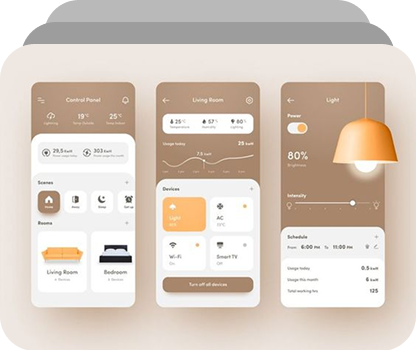
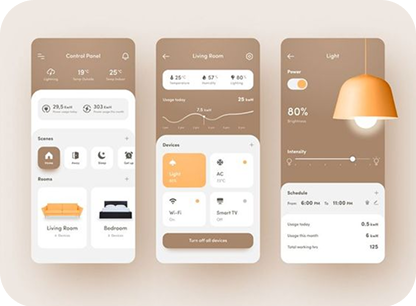
feat: add ServiceCard component with custom clip-path and stacked styling

diff --git a/src/components/ServiceCard.tsx b/src/components/ServiceCard.tsx
@@ -1,5 +1,4 @@
-import React from "react";
-import Image from "next/image";
+import React, { useId } from "react";
 import { ArrowDiagonalIcon } from "./icons/ArrowDiagonalIcon";
 
 export interface ServiceCardProps {
@@ -13,43 +12,56 @@ export const ServiceCard: React.FC<ServiceCardProps> = ({
 	imageSrc,
 	altText,
 }) => {
+	const clipId = useId().replace(/:/g, "");
+
 	return (
-		<div className="relative group w-full min-w-70 xs:min-w-[300px] md:min-w-0 bg-white/4 border border-white/15 hover:border-white/25 rounded-[28px] xs:rounded-[32px] sm:rounded-[36px] md:rounded-[40px] flex flex-col justify-between backdrop-blur-md shadow-2xl transition-all duration-300 hover:-translate-y-2 snap-start overflow-hidden">
-			{/* Title Header & Horizontal Line */}
-			<div className="p-5 xs:p-6 sm:p-7 pb-0">
-				<h3 className="text-2xl sm:text-3xl md:text-[28px] lg:text-[32px] font-bold text-white tracking-wide leading-tight">
-					{title}
-				</h3>
-				<div className="w-full h-px bg-white/15 mt-3.5 sm:mt-4 mb-3 sm:mb-4" />
-			</div>
+		<div className="relative group w-full min-w-70 xs:min-w-[300px] md:min-w-0 snap-start pb-[50%]">
+			<div className="rounded-[32px] sm:rounded-[40px] border border-white/15 group-hover:border-white/25 bg-white/5 backdrop-blur-md transition-all duration-300">
+				<div className="pt-8">
+					<h3 className="px-8 text-2xl sm:text-3xl md:text-[28px] lg:text-[32px] font-bold text-white tracking-wide leading-tight">
+						{title}
+					</h3>
+					<div className="w-full h-px bg-white/15 mt-3.5 sm:mt-4 mb-5 sm:mb-6" />
+				</div>
 
-			{/* Stacked Cards & Mockup Area */}
-			<div className="relative w-full px-3 xs:px-4 sm:px-5 pb-3 xs:pb-4 sm:pb-5 mt-2">
-				{/* Stacked Card Layer 3 (Backmost tab) */}
-				<div className="w-[80%] h-6 bg-white/15 rounded-t-[20px] sm:rounded-t-3xl mx-auto -mb-3 opacity-60 pointer-events-none" />
+				<div className="relative w-full -mb-[50%]">
+					<div className="w-[80%] h-6 bg-white/15 rounded-t-2xl sm:rounded-t-3xl mx-auto -mb-3 opacity-60 pointer-events-none" />
+					<div className="w-[90%] h-6 bg-white/30 rounded-t-2xl sm:rounded-t-[28px] mx-auto -mb-3 opacity-90 relative z-10 pointer-events-none" />
 
-				{/* Stacked Card Layer 2 (Middle tab) */}
-				<div className="w-[90%] h-6 bg-white/25 rounded-t-3xl sm:rounded-t-[28px] mx-auto -mb-3 opacity-90 relative z-10 pointer-events-none" />
+					<div className="relative z-20 w-full">
+						<div className="relative w-full aspect-[416/432]">
+							<svg
+								viewBox="0 0 416 432"
+								fill="none"
+								xmlns="http://www.w3.org/2000/svg"
+								className="w-full h-full block filter drop-shadow-xl"
+								role="img"
+								aria-label={altText}
+							>
+								<defs>
+									<clipPath id={`service-card-clip-${clipId}`}>
+										<path d="M0 37C0 16.5655 16.5655 0 37 0H379C399.435 0 416 16.5655 416 37V282.323C416 302.757 399.435 319.323 379 319.323H356.236C317.649 319.323 286.562 350.967 287.246 389.547L287.332 394.343C287.699 415.032 271.029 432 250.337 432H37C16.5655 432 0 415.435 0 395V37Z" />
+									</clipPath>
+								</defs>
+								<g clipPath={`url(#service-card-clip-${clipId})`}>
+									<rect width="416" height="432" fill="#F0EAE1" />
+									<image
+										href={imageSrc}
+										width="416"
+										height="432"
+										preserveAspectRatio="xMidYMid meet"
+									/>
+								</g>
+							</svg>
+						</div>
 
-				{/* Stacked Card Layer 1 (Front Main Showcase Card) */}
-				<div className="relative z-20 w-full">
-					<div className="relative w-full aspect-[1.22] service-card-cutout rounded-t-3xl sm:rounded-t-[28px] rounded-bl-3xl sm:rounded-bl-[28px] overflow-hidden bg-[#F0EAE1] shadow-xl">
-						<Image
-							src={imageSrc}
-							alt={altText}
-							fill
-							sizes="(max-width: 768px) 100vw, 33vw"
-							className="object-cover object-bottom transition-transform duration-500 group-hover:scale-105"
-						/>
+						<button
+							className="absolute bottom-0 right-0 z-30 w-14 h-14 sm:w-16 sm:h-16 md:w-17 md:h-17 rounded-full bg-[#131F2E] border border-white/20 text-white flex items-center justify-center group-hover:bg-accent-orange group-hover:border-accent-orange transition-all duration-300 shadow-2xl focus-visible:ring-2 focus-visible:ring-accent-orange focus-visible:outline-hidden cursor-pointer"
+							aria-label={`Learn more about ${title}`}
+						>
+							<ArrowDiagonalIcon className="w-5 h-5 sm:w-6 sm:h-6 stroke-[2.8] group-hover:translate-x-0.5 group-hover:-translate-y-0.5 transition-transform" />
+						</button>
 					</div>
-
-					{/* Floating Circular Action Button */}
-					<button
-						className="absolute bottom-0 right-0 z-30 w-14 h-14 sm:w-16 sm:h-16 md:w-17 md:h-17 rounded-full bg-[#131F2E] border border-white/20 text-white flex items-center justify-center group-hover:bg-accent-orange group-hover:border-accent-orange transition-all duration-300 shadow-2xl focus-visible:ring-2 focus-visible:ring-accent-orange focus-visible:outline-hidden cursor-pointer"
-						aria-label={`Learn more about ${title}`}
-					>
-						<ArrowDiagonalIcon className="w-5 h-5 sm:w-6 sm:h-6 stroke-[2.8] group-hover:translate-x-0.5 group-hover:-translate-y-0.5 transition-transform" />
-					</button>
 				</div>
 			</div>
 		</div>
